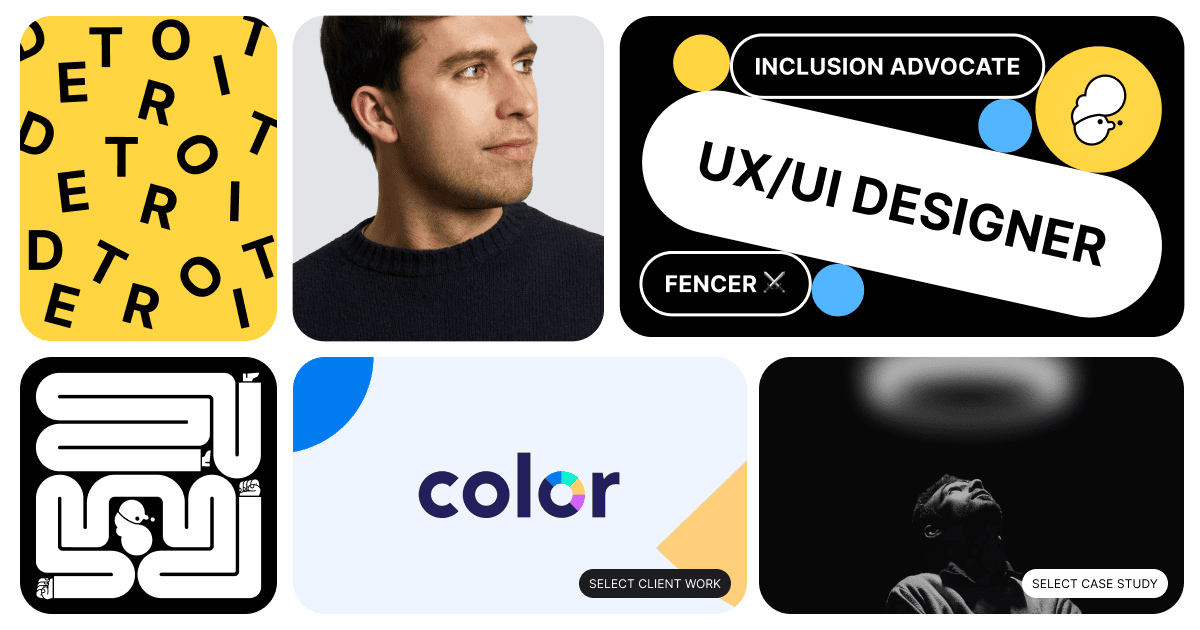
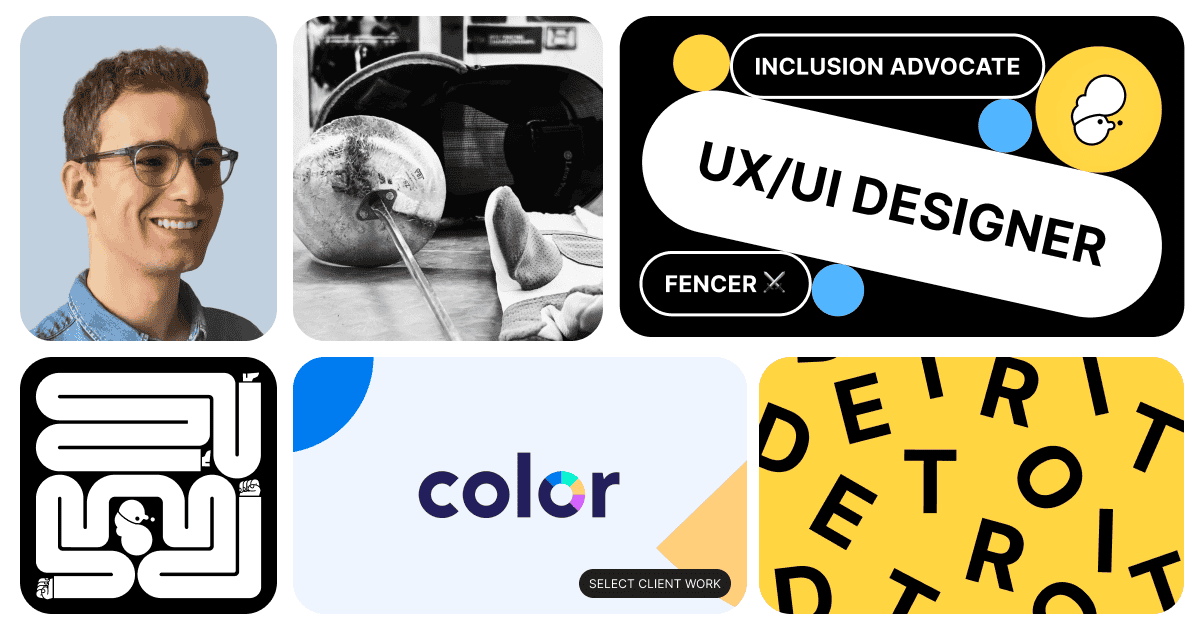
v12

diff --git a/index.html b/index.html
@@ -7,7 +7,7 @@
     <title>Alex Kauffman - UX/UI Designer</title>
     <meta name="description"
         content="Alex Kauffman, UX/UI Designer with foucs on creating website, ads, and more. Based in Detroit Michigan.">
-    <meta name="theme-color" content="#ffffff"/>
+    <meta name="theme-color" content="#ffffff" />
     <meta name="robots" content="index,follow"><!-- All Search Engines -->
     <meta name="googlebot" content="index,follow"><!-- Google Specific -->
     <meta name="google" content="nositelinkssearchbox">
@@ -153,7 +153,8 @@
                                 </span>
                             </div>
                             <div class="clipping">
-                                <img src="GoogleforCreators_Image.png" alt="img" width="100%" alt="img" draggable="false">
+                                <img src="GoogleforCreators_Image.png" alt="img" width="100%" alt="img"
+                                    draggable="false">
                             </div>
                             <h2>Google for Creators</h2>
                             <h3>UX/UI, Instrument Intern, Client</h3>
@@ -176,7 +177,7 @@
                         </div>
                     </a>
                 </div>
-                
+
             </div>
         </section>
         <div class="aboutMe">
@@ -240,17 +241,25 @@
                     </a>
                 </div>
                 <div class="cols">
+                    <a href="https://www.linkedin.com/posts/alex-kauffman_new-figma-features-from-config2023-activity-7079514392333074433-I4WV?utm_source=share&utm_medium=member_desktop"
+                        target="blank">
+                        <div class="clipping">
+                            <div class="chips">Alex Kauffman</div>
+                            <img draggable="false" src="blanks.svg" alt="img" style="user-select: none;"
+                                width="100%">
+                        </div>
+                        <h2>Thinking new ways taking Figma's variable for Display ads. Figma released new variable
+                            features to help many UX/UI Designers for app and contents.<br><br><br></h2>
+                        <p>LinkedIn</p>
+                    </a>
+                </div>
+                <div class="cols">
                     <div class="clipping">
                         <div class="chips">Alex Kauffman</div>
                         <img draggable="false" src="Alex_Fencing.png" alt="img" style="user-select: none;" width="100%">
                     </div>
                     <h2>Doing Saber fencing around the U.S.A helps shapes my design thinking.<br><br><br></h2>
                     <p>Coming Soon</p>
-                </div>
-                <div class="cols">
-                    <div class="clipping">
-                        <img draggable="false" src="blanks.svg" alt="img" style="user-select: none;" width="100%">
-                    </div>
                 </div>
                 <div class="cols">
                     <div class="clipping">
@@ -288,8 +297,7 @@
                     <p>Visa</p>
                 </div>
                 <div class="cols" style="  top: 32px; position: sticky;">
-                    <img src="blanks.svg"
-                        alt="img" style="user-select: none;" width="100%">
+                    <img src="blanks.svg" alt="img" style="user-select: none;" width="100%">
                 </div>
                 <div class="cols">
                     <h2>Alma Mater</h2>
@@ -306,7 +314,7 @@
             </div>
         </div>
         <div class="bento">
-            
+
         </div>
         <!-- <div class="dot"></div> -->
         <footer id="contacts">
